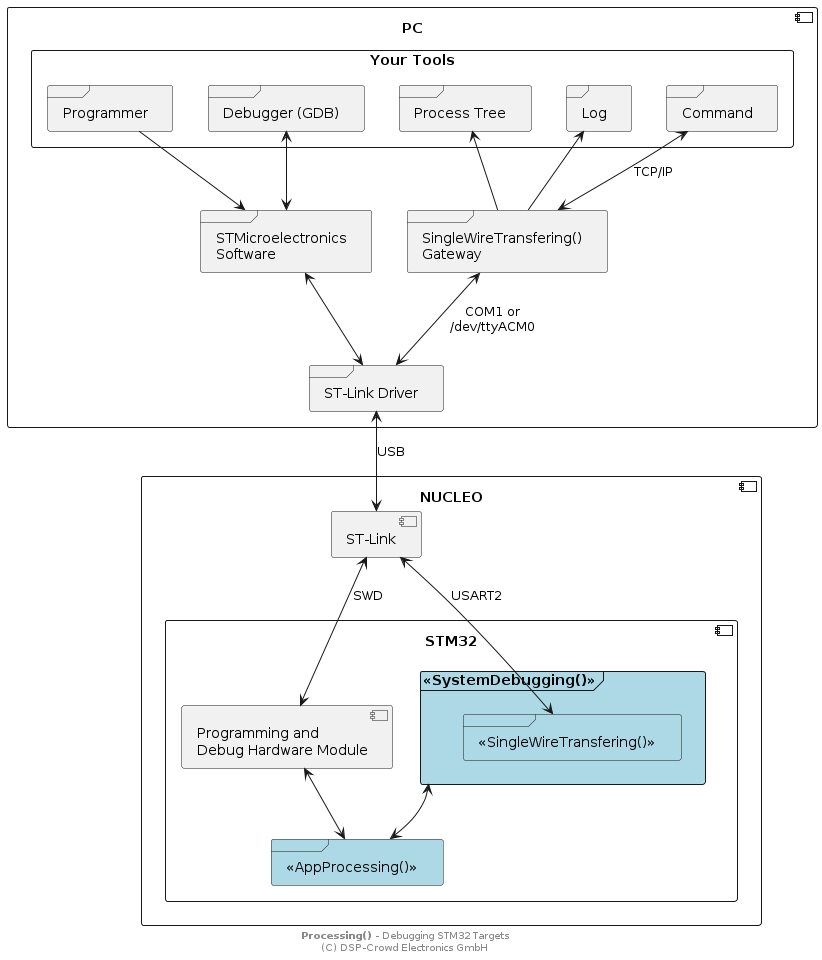
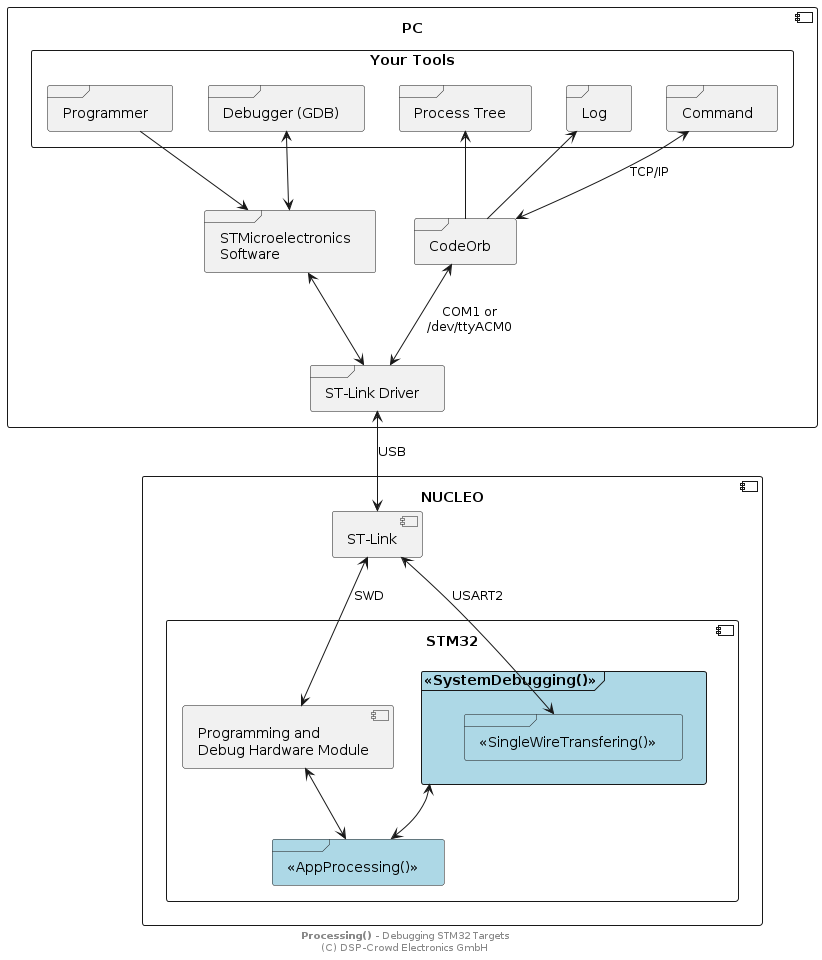
doc: Update

diff --git a/README.md b/README.md
@@ -15,7 +15,7 @@ The task viewer provides a detailed insight into the entire system, whereas the 
 
 ## Architecture
 
-This repository contains the code running on the microcontroller. Highlighted in blue. Check out the [SingleWireTransfering() Gateway](https://github.com/NoOrientationProgramming/gw-dbg-swt) as well!
+This repository contains the code running on the microcontroller. Highlighted in blue. Check out [CodeOrb](https://github.com/NoOrientationProgramming/code-orb) the microcontroller debugger as well!
 
 <p align="center">
   <kbd>
